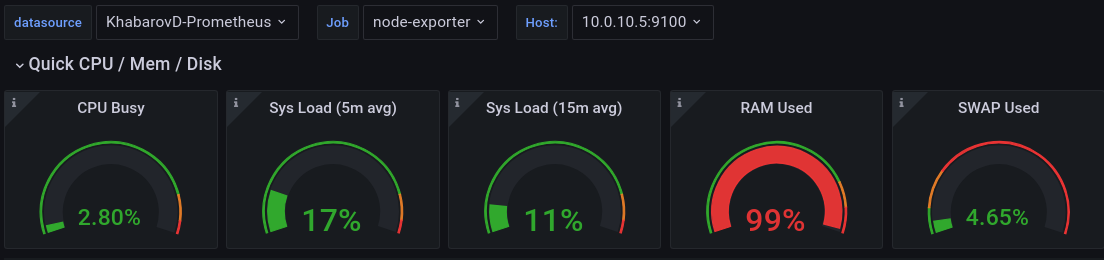
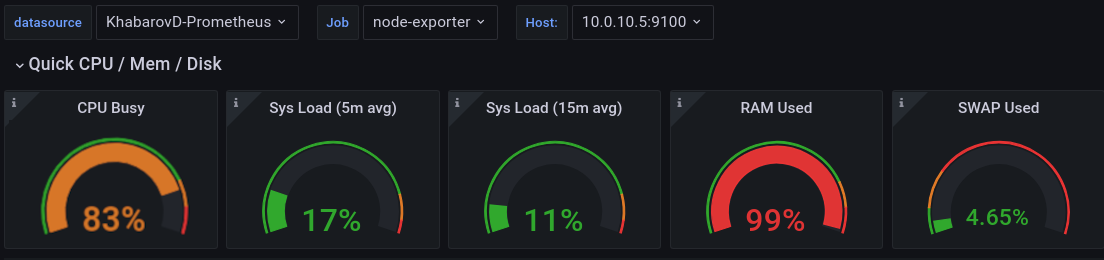
fixed load-plan

Changed region(s): [[0.0308, 0.5231, 0.1848, 0.8923]]

diff --git a/README.md b/README.md
@@ -2,27 +2,33 @@
 
 ## Профиль нагрузки
 
-- `GET http://91.185.85.213/cities`
-- `GET http://91.185.85.213/forecast`
+- `GET  http://91.185.85.213/Cities`          - 47,5% всех запросов
+- `GET  http://91.185.85.213/Forecast`        - 47,5% всех запросов
+- `POST http://91.185.85.213/Forecast/1`      - 2,5%  всех запросов
+- `GET  http://91.185.85.213/WeatherForecast` - 2,5%  всех запросов
 
 ## Нефункциональные требования по производительности сервиса weather-api
 
 1. Количество запросов в секунду:
 
-   1. В обычном режиме - 400 RPS (поровну на обе ручки).
-   2. В периоды пиковой нагрузки - 850 RPS.
+   1. В обычном режиме - 75 RPS.
+   2. В периоды пиковой нагрузки - 125 RPS.
 
 2. Какое допустимое время ответа сервера:
 
     1. В обычном режиме:
         - 50% запросов: <= 10ms.
-        - 90% запросов: <= 20ms.
-        - 95% запросов: <= 50ms.
+        - 90% запросов: <= 200ms.
+        - 95% запросов: <= 400ms.
 
     2. В периоды пиковой нагрузки.
-        - 50% запросов: <= 30ms.
-        - 90% запросов: <= 60ms.
-        - 95% запросов: <= 150ms.
+        - 50% запросов: <= 50ms.
+        - 90% запросов: <= 500ms.
+        - 95% запросов: <= 1000ms.
+
+3. Количество городов в БД - не менее 75.
+4. Количество запросов на добавление погоды не менее 2% всех запросов.
+5. Количество запросов погоды для всех городов (WeatherForecast) не менее 2%.
 
 ## Инструмент нагрузочного тестирования
 
@@ -31,26 +37,27 @@
 
 Последовательность стресс-теста:
     - прогрев: 5 RPS на 5 секунд;
-    - обычный режим: 400 RPS на 300 секунд; 
-    - пиковый режим: 850 RPS на 60 секунд;
-    - обычный режим: 400 RPS на 300 секунд;
+    - обычный режим: 75 RPS на 300 секунд; 
+    - пиковый режим: 125 RPS на 60 секунд;
+    - обычный режим: 75 RPS на 300 секунд;
 
-Для определения максимальной производительности подготовлен скрипт loader.sh, который выполняет последовательный запуск нагрузки с параметрами rate [ 50 - 1000 ] с шагом в 50rps. Каждый шаг длится 120секунд.
+** В идеале, для получения более точных результатов теста следует запускать тест на 1-2 часа. 
 
 ## Максимальная производительность системы 
 
 Определение проводилось скриптом loader.sh и утилитой vegeta.
 
-Выполнялась последовательная нагрузка в диапазоне от 50 RPS до 1100 RPS с шагом 50 RPS. Длина итерации - 120 секунд.
-Выяснил, что система остается работоспособной при 950 RPS при кратковременной нагрузке в течение 60 секунд.
+Выполнялась последовательная нагрузка в диапазоне от 25 RPS до 150 RPS с шагом 25 RPS. Длина итерации - 120 секунд.
+Выяснил, что система остается работоспособной при 125 RPS при кратковременной нагрузке в течение 60 секунд.
+При 150 RPS уже появляются ошибки, система работает нестабильно.
 
 ## Выводы
 
-Судя по дашборду из node-exporter, хост с postgresql упирается в RAM на хостах с БД. Видно даже что он начинает свопить.
+Судя по дашборду из node-exporter, хост с postgresql упирается в RAM и CPU на хостах с БД. Видно даже что он начинает свопить.
 ![Alt text](<cpu-mem-swap.png>)
 
 Также, видно что система очень близка к своим предельным значениям CPU для weather-api в k8s.
 ![Alt text](<k8s-api-cpu.png>)
 
 Пример графика по определению максимального значения RPS:
-![Alt text](image.png)
+![Alt text](<max_rps.png>)
